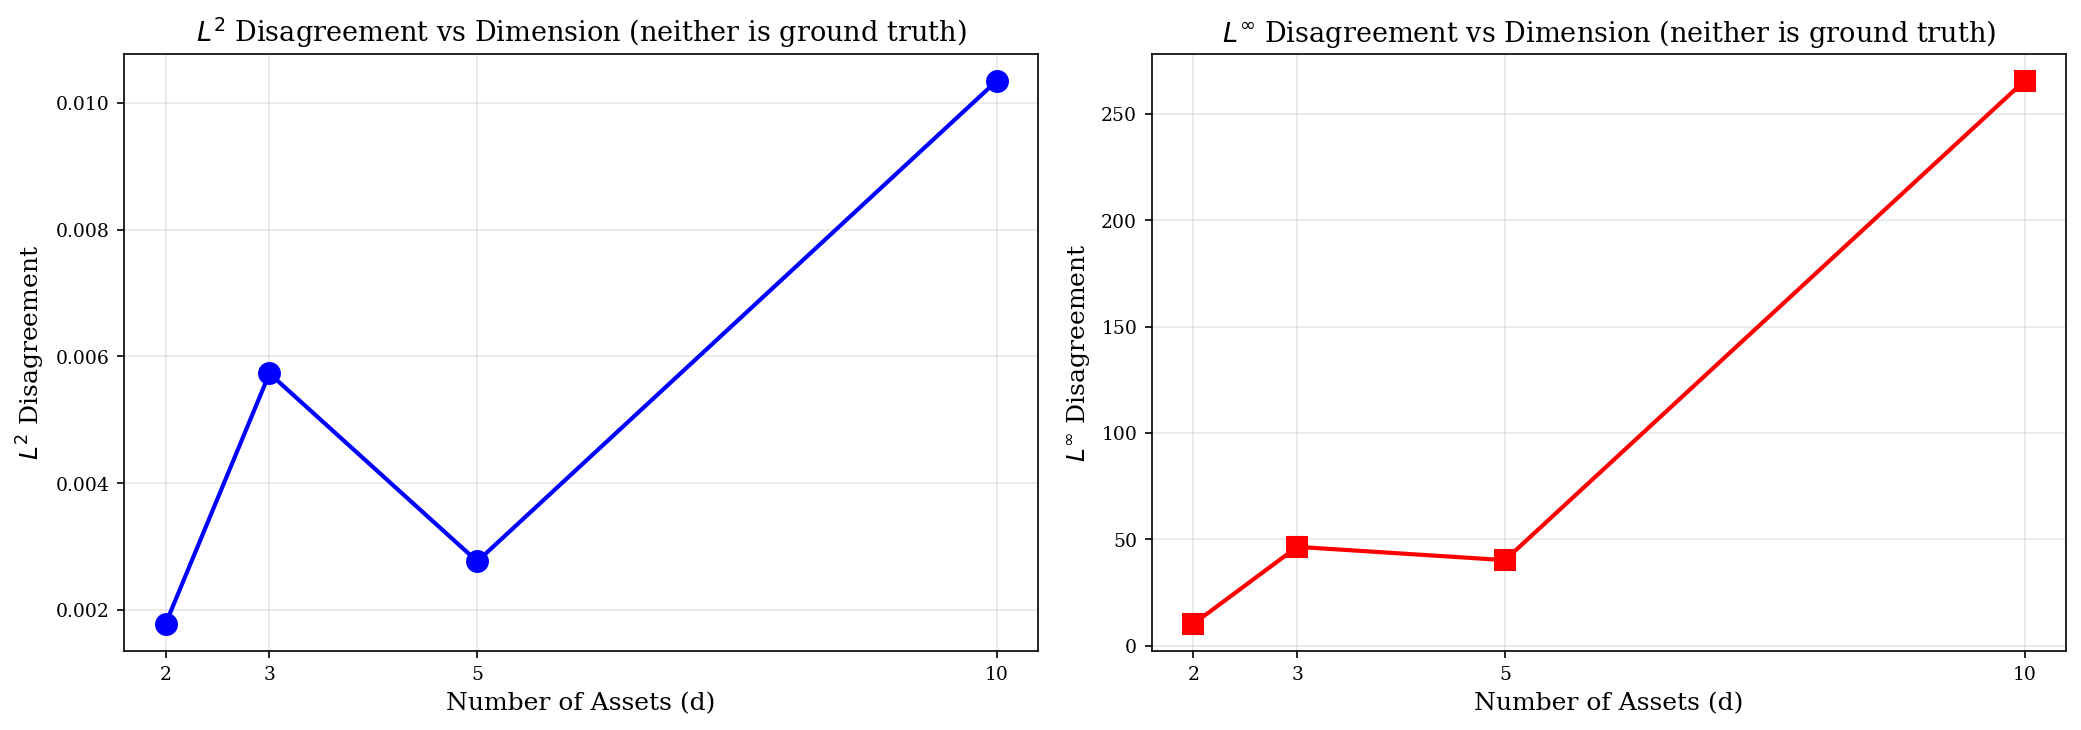
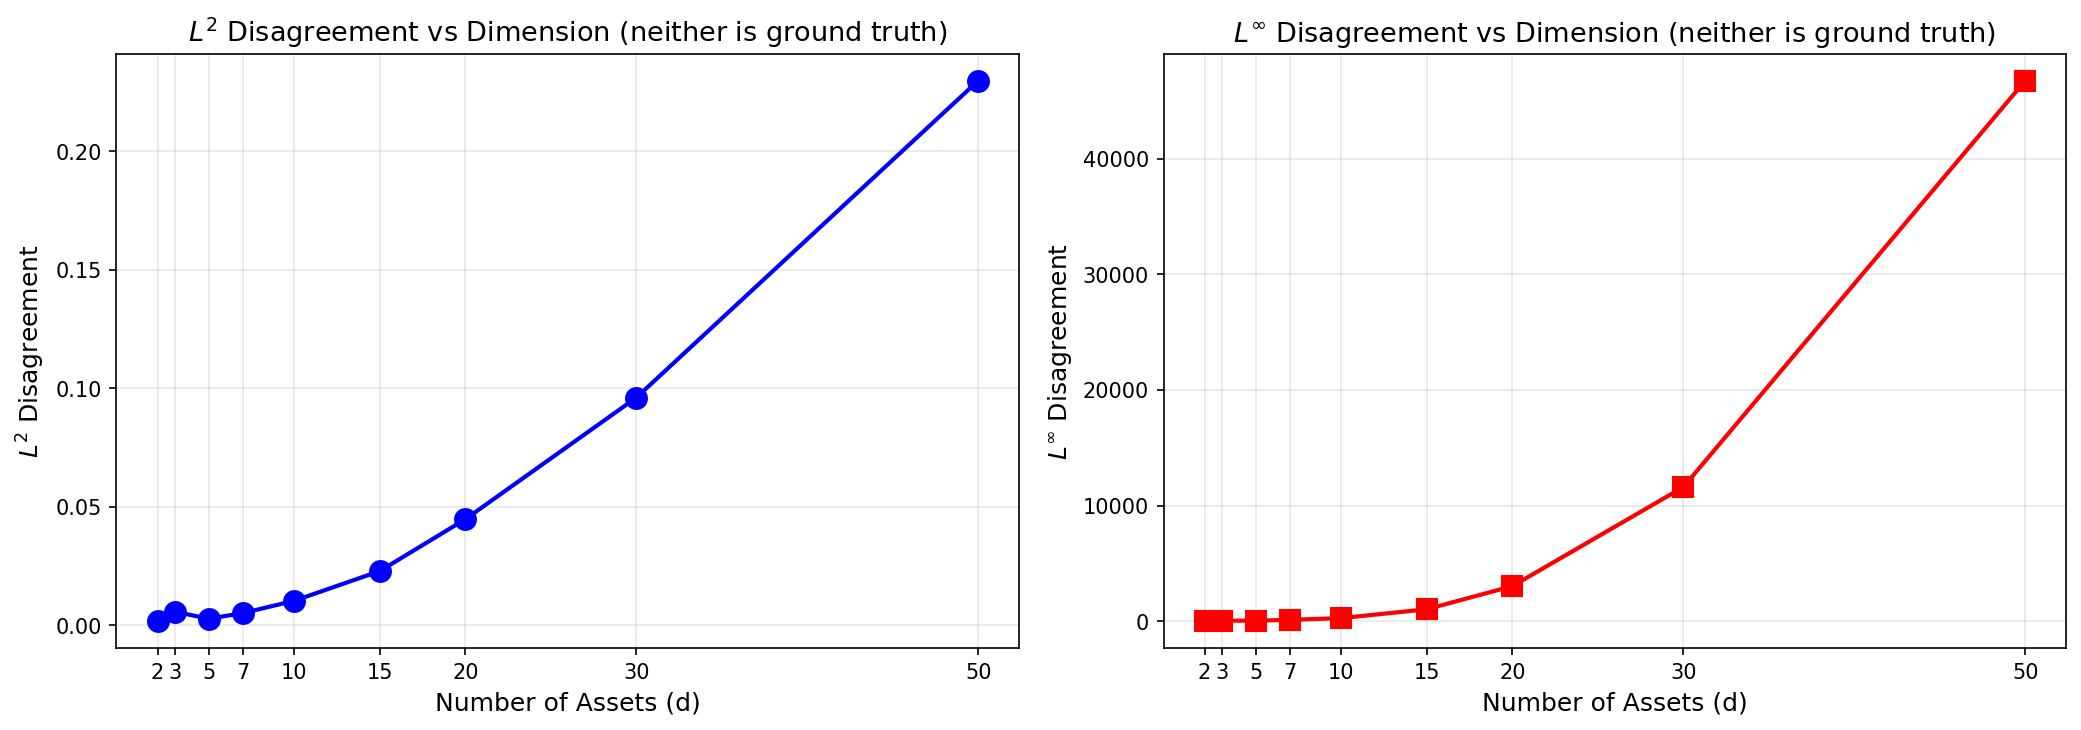
Improved experiment

diff --git a/Comparison_Between_Methods/config.py b/Comparison_Between_Methods/config.py
@@ -309,19 +309,19 @@ def create_5d_params(r=0.05, base_sigma=0.15, T=0.5, seed=42) -> ProblemParamete
 def create_10d_params(r=0.05, base_sigma=0.125, T=0.5, seed=42) -> ProblemParameters:
     """
     Create parameters for a 10D Black-Scholes test case.
-    
+
     Based on the paper's Section 3.5.3 (10-to-1 dimensional example).
-    
+
     Returns
     -------
     ProblemParameters
         10D problem configuration
     """
     d = 10
-    
+
     # Uniform volatilities
     sigma = base_sigma * np.ones(d)
-    
+
     # Correlation matrix from paper's Equation 58
     corr_matrix = np.array([
         [1.0,   0.2,   0.2,   0.35,  0.2,   0.25,  0.2,   0.2,   0.3,   0.2  ],
@@ -335,7 +335,7 @@ def create_10d_params(r=0.05, base_sigma=0.125, T=0.5, seed=42) -> ProblemParame
         [0.3,   0.2,   0.45,  0.425, 0.5,   0.35,  0.2,   0.2,   1.0,   0.2  ],
         [0.2,   0.45,  0.2,   0.2,   0.2,   0.2,   0.2,  -0.1,   0.2,   1.0  ]
     ])
-    
+
     return ProblemParameters(
         r=r,
         sigma=sigma,
@@ -344,6 +344,75 @@ def create_10d_params(r=0.05, base_sigma=0.125, T=0.5, seed=42) -> ProblemParame
         x0=100.0 * np.ones(d),
         T=T,
         K=1000.0,  # d=10 means basket ≈ 1000
+        random_seed=seed
+    )
+
+
+def create_nd_params(d: int, r=0.05, base_sigma=0.15, rho=0.5, T=0.5,
+                     seed=42) -> ProblemParameters:
+    """
+    Create parameters for an arbitrary d-dimensional Black-Scholes test case.
+
+    This function generates consistent parameters for any dimension, using:
+    - Toeplitz-like correlation matrix: corr[i,j] = rho^|i-j| (guaranteed positive definite)
+    - Varying volatilities around base_sigma
+    - At-the-money strike (K = 100 * d)
+
+    Parameters
+    ----------
+    d : int
+        Number of assets in the basket
+    r : float
+        Risk-free rate
+    base_sigma : float
+        Base volatility level. Individual asset volatilities will vary
+        around this value by ±20%
+    rho : float
+        Base correlation parameter. Correlation between assets i and j
+        is rho^|i-j|, ensuring positive definiteness
+    T : float
+        Maturity
+    seed : int
+        Random seed
+
+    Returns
+    -------
+    ProblemParameters
+        d-dimensional problem configuration
+
+    Examples
+    --------
+    >>> params = create_nd_params(7)  # 7-asset basket
+    >>> params.d
+    7
+    >>> params.S0
+    700.0
+    """
+    if d < 1:
+        raise ValueError(f"Dimension d must be >= 1, got {d}")
+
+    # Generate varying volatilities around base_sigma
+    # Pattern: alternate between slightly higher and lower values
+    # This creates realistic heterogeneity across assets
+    np.random.seed(seed)
+    sigma_multipliers = 0.8 + 0.4 * np.random.rand(d)  # Range [0.8, 1.2]
+    sigma = base_sigma * sigma_multipliers
+
+    # Toeplitz-like correlation matrix: corr[i,j] = rho^|i-j|
+    # This is always positive definite for |rho| < 1
+    corr_matrix = np.zeros((d, d))
+    for i in range(d):
+        for j in range(d):
+            corr_matrix[i, j] = rho ** abs(i - j)
+
+    return ProblemParameters(
+        r=r,
+        sigma=sigma,
+        corr_matrix=corr_matrix,
+        P1=np.ones(d),
+        x0=100.0 * np.ones(d),
+        T=T,
+        K=100.0 * d,  # At-the-money: K = S0 = 100*d
         random_seed=seed
     )
 

diff --git a/Comparison_Between_Methods/experiments/exp3_dimension_scaling.py b/Comparison_Between_Methods/experiments/exp3_dimension_scaling.py
@@ -40,6 +40,7 @@ from config import (
     create_2d_params,
     create_5d_params,
     create_10d_params,
+    create_nd_params,
 )
 from methods.mlmc_ot_estimator import estimate_volatility_mlmc, estimate_domain
 from methods.laplace_wrapper import estimate_volatility_laplace
@@ -96,33 +97,35 @@ def run_experiment(
         print()
     
     # Create parameter sets for each dimension
+    # Use paper-specific parameters where available, otherwise use generic
     param_creators = {
         2: create_2d_params,
-        3: lambda: DEFAULT_PARAMS.copy(),  # Default is 3D
+        3: lambda: DEFAULT_PARAMS.copy(),  # Default is 3D (paper's Eq. 56)
         5: create_5d_params,
-        10: create_10d_params,
+        10: create_10d_params,  # Paper's Eq. 58
     }
-    
+
     # Storage for results
     mlmc_times = []
     laplace_times = []
     l2_disagreements = []
     linf_disagreements = []
     all_results = {}
-    
+
     for dim in dimensions:
         if verbose:
             print("-" * 50)
             print(f"Testing d = {dim} assets")
             print("-" * 50)
-        
+
         # Get parameters for this dimension
+        # Use paper-specific params if available, otherwise use generic
         if dim in param_creators:
             params = param_creators[dim]()
         else:
             if verbose:
-                print(f"  Warning: No predefined parameters for d={dim}, skipping")
-            continue
+                print(f"  Using generic parameters for d={dim}")
+            params = create_nd_params(dim)
         
         if verbose:
             print(f"  S0 = {params.S0:.1f}, K = {params.K:.1f}")

diff --git a/Comparison_Between_Methods/results/Experiment_2_Diagnostics_Report.md b/Comparison_Between_Methods/results/Experiment_2_Diagnostics_Report.md
@@ -166,7 +166,20 @@ This document presents the diagnostic plots from Experiment 2, explaining the ma
 
 ### Analysis
 
-*[To be completed]*
+### Left Panel: Standard Error vs Number of Runs
+
+- Observed SE (blue) follows theoretical 1/√n curve (red dashed) closely
+- Starts at ~2×10⁻³ for n = 2, drops to ~5×10⁻⁴ by n = 20
+- Small bump around n = 7–8 (normal statistical fluctuation)
+- **Interpretation:** Across-run uncertainty behaves exactly as theory predicts
+
+### Right Panel: Relative SE Heatmap
+
+- Highest uncertainty (0.14–0.16%) at low basket values (S ≈ 240) and late times (t → 0.5)
+- Lowest uncertainty (< 0.02%) at high basket values (S > 380)
+- Pattern matches where Monte Carlo sampling is sparse (tails of distribution)
+- **Interpretation:** Uncertainty is spatially heterogeneous but everywhere < 0.2%
+
 
 ---
 
@@ -206,7 +219,21 @@ This document presents the diagnostic plots from Experiment 2, explaining the ma
 
 ### Analysis
 
-*[To be completed]*
+### Left Panel: Pointwise Comparison
+
+- Points lie almost perfectly on the y = x line
+- Correlation = 1.0000
+- L² disagreement = 0.0018 (0.18%)
+- Range spans b̄² from ~750 to ~2800
+- **Interpretation:** Methods agree almost perfectly across entire surface
+
+### Right Panel: Difference Heatmap (MLMC − Laplace)
+
+- Systematic pattern: MLMC slightly lower at high S (blue, −10 to −15)
+- MLMC slightly higher at low S, late t (red, +10 to +15)
+- Differences are ~±15 on values of ~750–2800 (i.e., ~0.5–2% relative)
+- **Interpretation:** Small systematic bias exists but is spatially structured, not random noise
+
 
 ---
 
@@ -238,7 +265,24 @@ This document presents the diagnostic plots from Experiment 2, explaining the ma
 
 ### Analysis
 
-*[To be completed]*
+- Starts high (~6×10⁻³) with just 1 run
+- Settles to ~1.5–1.8×10⁻³ after ~12 runs
+- Final value: 0.0018
+- Oscillations in early runs (n < 10) are normal statistical variation
+- **Interpretation:** Disagreement stabilises quickly; 20 runs is sufficient for reliable estimate
+
+---
+
+### The α Warning Explained
+
+The weak convergence rate α = −0.06 is flagged as a warning, but this is actually a sign of success rather than failure:
+
+- Level 0 captures essentially all the signal (~1350)
+- Levels 1–3 are tiny corrections hovering near the noise floor (~0.06–0.13)
+- When fitting a line through flat data, the slope is meaningless
+- **The method has converged by level 1**, leaving nothing for finer levels to improve
+
+
 
 ---
 

diff --git a/Comparison_Between_Methods/results/tables/exp3_dimension_scaling.md b/Comparison_Between_Methods/results/tables/exp3_dimension_scaling.md
@@ -7,10 +7,15 @@ Neither method is ground truth.
 
 | d | MLMC Time (s) | Laplace Time (s) | L² Disagreement | L∞ Disagreement |
 |---|---------------|------------------|-----------------|------------------|
-| 2 | 0.19 | 0.65 | 0.0018 | 10.3136 |
-| 3 | 0.22 | 1.35 | 0.0057 | 46.5437 |
-| 5 | 0.28 | 3.08 | 0.0028 | 40.2860 |
-| 10 | 0.39 | 10.05 | 0.0103 | 265.5721 |
+| 2 | 0.19 | 0.64 | 0.0018 | 10.3136 |
+| 3 | 0.21 | 1.32 | 0.0057 | 46.5437 |
+| 5 | 0.25 | 2.90 | 0.0028 | 40.2860 |
+| 7 | 0.30 | 5.18 | 0.0052 | 118.2496 |
+| 10 | 0.37 | 9.92 | 0.0103 | 265.5721 |
+| 15 | 0.46 | 23.02 | 0.0229 | 1031.5011 |
+| 20 | 0.59 | 39.06 | 0.0448 | 3028.2342 |
+| 30 | 0.84 | 87.40 | 0.0961 | 11595.2870 |
+| 50 | 1.36 | 251.28 | 0.2299 | 46740.1620 |
 
 ## Key Observations
 
